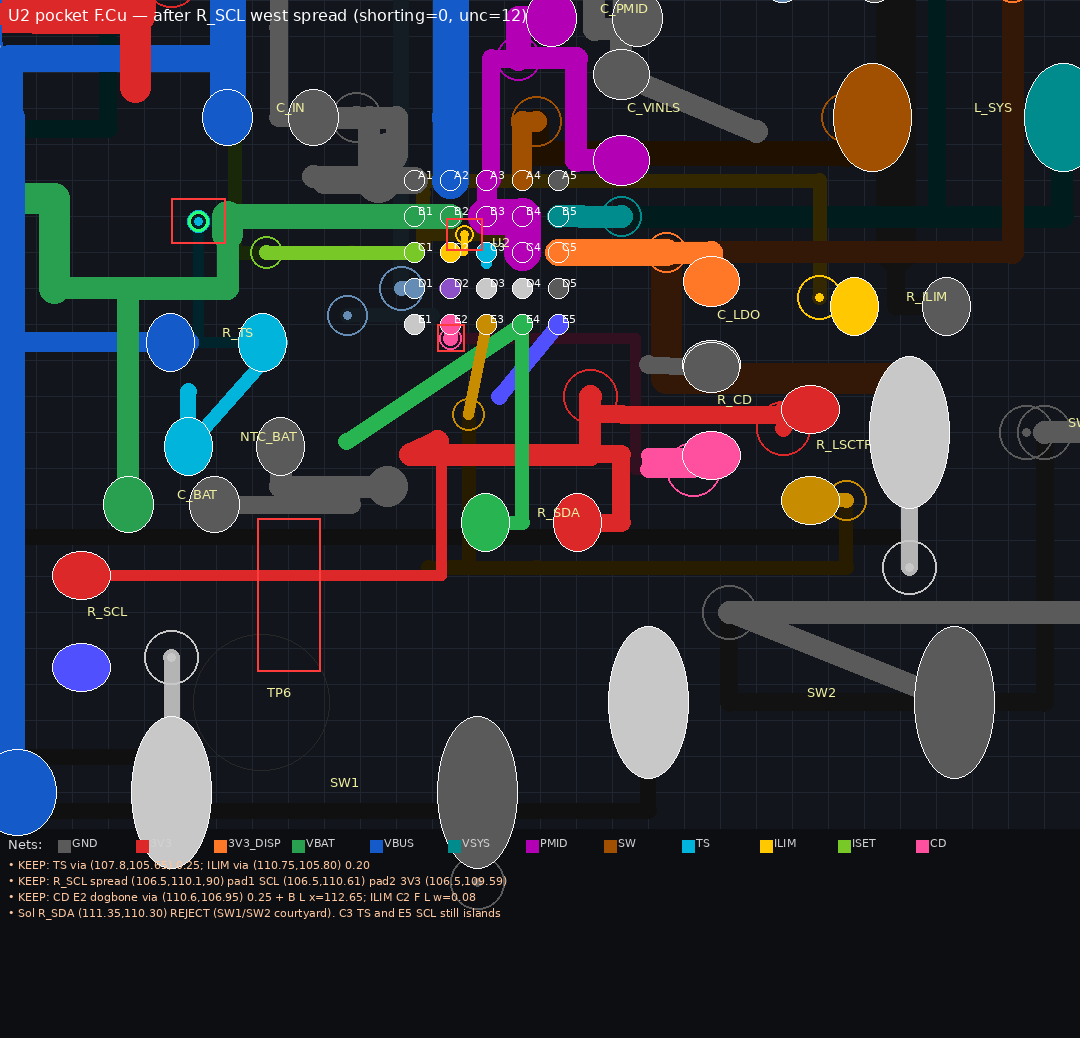
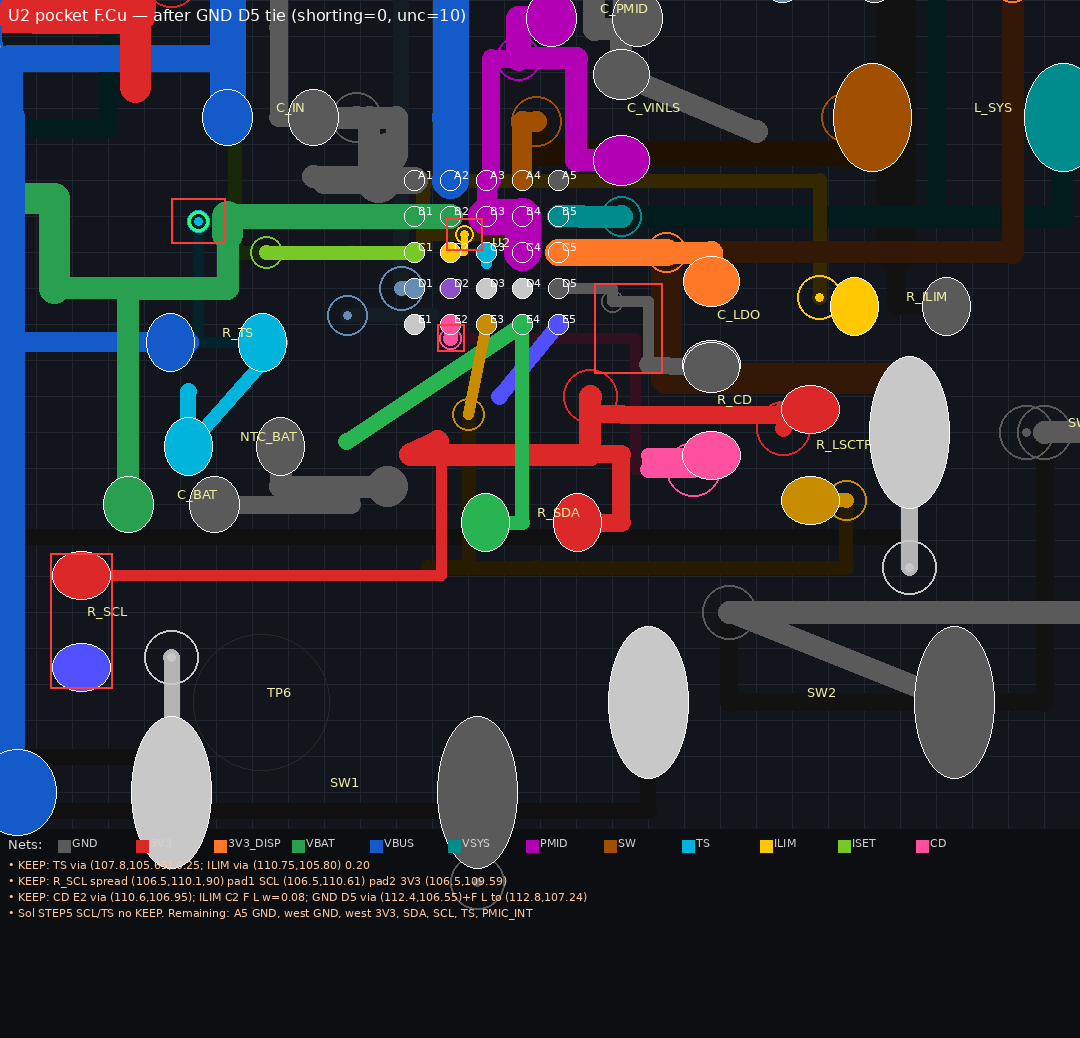
Tie U2 D5 GND onto east R_CD without zone refill.
Sol STEP5 refused SCL/TS (pad1 boxed by VBUS/BTN1; TS B hits CD/ILIM).
Independent KEEP: D5 via 0.25@(112.4,106.55) plus F.Cu L onto existing
R_CD GND (112.8,107.24). DRC shorting=0, unconnected 12→10.

diff --git a/kicad/tools/_pass_ag_try.py b/kicad/tools/_pass_ag_try.py
@@ -390,6 +390,29 @@ elif edit_name == "sol_rscl_west":
     if n_h != 1 or n_v != 1:
         raise SystemExit("sol_rscl_west failed to match 3V3 follow")
 
+elif edit_name == "sol_gnd_d5_via":
+    # Sol STEP5 refused SCL/TS (pad1 boxed by VBUS/BTN1/3V3; TS B hits CD/ILIM).
+    # Independent: stitch U2.D5 GND. Not VIP. A5 east still overlaps
+    # PMID/ILIM B — leave A5. Via 0.35@(112.22,106.40) was only +0.075 vs
+    # 3V3_DISP F y=106.0 (below 0.15). KEEP 0.25@(112.4,106.55). New via
+    # does not stitch stale In1 fill; F.Cu L onto existing GND
+    # (112.8,107.24) joins the east cluster without a zone refill.
+    # Do not drop (112.4,106.55)-(112.4,107.24): +0.073 vs 3V3 via 0.6.
+    text = add_via(text, 112.4, 106.55, 0.25, 0.15, ground_net)
+    text = add_segment(text, 111.8, 106.4, 112.4, 106.4, 0.12, "F.Cu", ground_net)
+    text = add_segment(text, 112.4, 106.4, 112.4, 106.55, 0.12, "F.Cu", ground_net)
+    text = add_segment(text, 112.4, 106.55, 112.8, 106.55, 0.12, "F.Cu", ground_net)
+    text = add_segment(text, 112.8, 106.55, 112.8, 107.24, 0.12, "F.Cu", ground_net)
+    print("sol_gnd_d5_via via (112.4,106.55) 0.25 + F L D5→(112.8,107.24)")
+
+elif edit_name == "sol_gnd_d5_tie":
+    # Board already has the D5 via + dogbone. Zone fill is stale, so the
+    # via is still an island vs east GND (112.8,107.24). Orthogonal F.Cu
+    # east-then-south L, overlap=0 (3V3_DISP via +0.300, 3V3 via +0.374).
+    text = add_segment(text, 112.4, 106.55, 112.8, 106.55, 0.12, "F.Cu", ground_net)
+    text = add_segment(text, 112.8, 106.55, 112.8, 107.24, 0.12, "F.Cu", ground_net)
+    print("sol_gnd_d5_tie F L (112.4,106.55)->(112.8,106.55)->(112.8,107.24)")
+
 else:
     raise SystemExit(f"unknown edit {edit_name}")
 

diff --git a/kicad/tools/_pass_ag_apply_keeps.py b/kicad/tools/_pass_ag_apply_keeps.py
@@ -116,6 +116,25 @@ if has_ilim_dog and "(at 108.8 109.8 90)" in text and not has_rscl_west:
     applied.append("sol_rscl_west")
     has_rscl_west = True
 
+has_gnd_d5 = "(at 112.4 106.55)" in text
+has_gnd_d5_tie = "(start 112.8 106.55)" in text or "(end 112.8 106.55)" in text
+if has_rscl_west and not has_gnd_d5:
+    ground_net = netnum(text, "GND")
+    text = add_via(text, 112.4, 106.55, 0.25, 0.15, ground_net)
+    text = add_segment(text, 111.8, 106.4, 112.4, 106.4, 0.12, "F.Cu", ground_net)
+    text = add_segment(text, 112.4, 106.4, 112.4, 106.55, 0.12, "F.Cu", ground_net)
+    text = add_segment(text, 112.4, 106.55, 112.8, 106.55, 0.12, "F.Cu", ground_net)
+    text = add_segment(text, 112.8, 106.55, 112.8, 107.24, 0.12, "F.Cu", ground_net)
+    applied.append("sol_gnd_d5_via")
+    has_gnd_d5 = True
+    has_gnd_d5_tie = True
+elif has_gnd_d5 and not has_gnd_d5_tie:
+    ground_net = netnum(text, "GND")
+    text = add_segment(text, 112.4, 106.55, 112.8, 106.55, 0.12, "F.Cu", ground_net)
+    text = add_segment(text, 112.8, 106.55, 112.8, 107.24, 0.12, "F.Cu", ground_net)
+    applied.append("sol_gnd_d5_tie")
+    has_gnd_d5_tie = True
+
 if not applied:
     if "(at 110.75 105.8)" in text and (
         "(at 108.8 109.8 90)" in text or has_rscl_west
@@ -131,6 +150,10 @@ if not applied:
             extra += ", sol_ilim_c2_dogbone"
         if has_rscl_west:
             extra += ", sol_rscl_west"
+        if has_gnd_d5:
+            extra += ", sol_gnd_d5_via"
+        if has_gnd_d5_tie:
+            extra += ", sol_gnd_d5_tie"
         print(
             "Pass-AG keeps already present: "
             f"iset_via_west, ts_via_corner, sol_combo_west{extra}"

diff --git a/kicad/tools/_u2_pocket_render.py b/kicad/tools/_u2_pocket_render.py
@@ -39,8 +39,8 @@ NET_COLORS = {
 LATENTS = [
     "KEEP: TS via (107.8,105.65) 0.25; ILIM via (110.75,105.80) 0.20",
     "KEEP: R_SCL spread (106.5,110.1,90) pad1 SCL (106.5,110.61) pad2 3V3 (106.5,109.59)",
-    "KEEP: CD E2 dogbone via (110.6,106.95) 0.25 + B L x=112.65; ILIM C2 F L w=0.08",
-    "Sol R_SDA (111.35,110.30) REJECT (SW1/SW2 courtyard). C3 TS and E5 SCL still islands",
+    "KEEP: CD E2 via (110.6,106.95); ILIM C2 F L w=0.08; GND D5 via (112.4,106.55)+F L to (112.8,107.24)",
+    "Sol STEP5 SCL/TS no KEEP. Remaining: A5 GND, west GND, west 3V3, SDA, SCL, TS, PMIC_INT",
 ]
 
 
@@ -243,9 +243,10 @@ def render_layer(text, layer, title, callouts):
     # latent / KEEP boxes
     boxes = [
         ((110.55, 105.62, 110.95, 105.98), "ILIM via KEEP"),
-        ((108.45, 108.95, 109.15, 110.65), "R_SCL KEEP"),
+        ((106.15, 109.35, 106.85, 110.85), "R_SCL KEEP"),
         ((107.5, 105.4, 108.1, 105.9), "TS via KEEP"),
         ((110.45, 106.80, 110.75, 107.10), "CD via KEEP"),
+        ((112.20, 106.35, 112.95, 107.35), "GND D5 KEEP"),
     ]
     if layer == "F.Cu":
         for (bx0, by0, bx1, by1), _label in boxes:
@@ -282,7 +283,7 @@ def main():
     fcu = render_layer(
         text,
         "F.Cu",
-        "U2 pocket F.Cu — after R_SCL west spread (shorting=0, unc=12)",
+        "U2 pocket F.Cu — after GND D5 tie (shorting=0, unc=10)",
         LATENTS,
     )
     bcu = render_layer(

diff --git a/kicad/reports/PASS_AG_SOL_STEP5.md b/kicad/reports/PASS_AG_SOL_STEP5.md
@@ -1,0 +1,96 @@
+# gpt-6-sol repo explorer (2026-09-24)
+
+Sol used workspace tools. API key is not in the repo. Coordinates below are **Sol's**, not yet a DRC KEEP unless a later section says KEEP.
+
+## Tool calls
+
+- `list_dir` `{"path": "."}`
+- `glob` `{"pattern": "**/cursor.md"}`
+- `glob` `{"pattern": "kicad/reports/*AG*"}`
+- `glob` `{"pattern": "kicad/reports/sol_views/*"}`
+- `glob` `{"pattern": "kicad/LIVE_LOG.txt"}`
+- `read_file` `{"path": "cursor.md"}`
+- `read_file` `{"path": "kicad/reports/PASS_AG.md"}`
+- `read_file` `{"path": "kicad/reports/PASS_AG_SOL_STEP4.md"}`
+- `read_file` `{"path": "kicad/LIVE_LOG.txt", "limit": 95}`
+- `inspect_pcb_window` `{"x0": 105, "y0": 105, "x1": 113, "y1": 112}`
+- `read_image` `{"path": "kicad/reports/sol_views/u2_pocket_fcu_annotated.png"}`
+- `read_image` `{"path": "kicad/reports/sol_views/u2_pocket_bcu_annotated.png"}`
+- `read_file` `{"path": "kicad/LIVE_LOG.txt", "offset": 900, "limit": 100}`
+- `read_file` `{"path": "kicad/reports/PASS_AG_SOL_STEP3.md", "limit": 145}`
+- `read_image` `{"path": "kicad/reports/sol_views/u2_3d_close.png"}`
+- `inspect_pcb_window` `{"x0": 106, "y0": 103, "x1": 112, "y1": 108, "layer": "B.Cu"}`
+- `probe_clearance` `{"kind": "segment", "net": "SCL", "layer": "F.Cu", "x1": 106.5, "y1": 110.61, "x2": 106.5, "y2": 111.1, "width": 0.12}`
+- `probe_clearance` `{"kind": "segment", "net": "SCL", "layer": "F.Cu", "x1": 106.5, "y1": 110.61, "x2": 107.1, "y2": 110.61, "width": 0.12}`
+- `probe_clearance` `{"kind": "segment", "net": "SCL", "layer": "F.Cu", "x1": 111.14, "y1": 107.6, "x2": 111.14, "y2": 107.95, "width": 0.1}`
+- `probe_clearance` `{"kind": "via", "net": "SCL", "x": 111.8, "y": 107.4, "size": 0.2}`
+- `probe_clearance` `{"kind": "via", "net": "TS", "x": 111, "y": 106.12, "size": 0.2}`
+- `probe_clearance` `{"kind": "segment", "net": "TS", "layer": "B.Cu", "x1": 111, "y1": 106.12, "x2": 111, "y2": 107.35, "width": 0.1}`
+- `probe_clearance` `{"kind": "segment", "net": "SCL", "layer": "F.Cu", "x1": 106.5, "y1": 110.61, "x2": 106.5, "y2": 109.1, "width": 0.12}`
+- `probe_clearance` `{"kind": "segment", "net": "SCL", "layer": "F.Cu", "x1": 106.5, "y1": 110.61, "x2": 105.9, "y2": 110.61, "width": 0.12}`
+- `probe_clearance` `{"kind": "segment", "net": "SCL", "layer": "F.Cu", "x1": 106.5, "y1": 111.1, "x2": 108.3, "y2": 111.1, "width": 0.12}`
+- `probe_clearance` `{"kind": "segment", "net": "SCL", "layer": "F.Cu", "x1": 106.5, "y1": 110.61, "x2": 106.5, "y2": 112.95, "width": 0.12}`
+- `probe_clearance` `{"kind": "segment", "net": "TS", "layer": "B.Cu", "x1": 111, "y1": 106.12, "x2": 107.8, "y2": 106.12, "width": 0.1}`
+- `probe_clearance` `{"kind": "segment", "net": "TS", "layer": "B.Cu", "x1": 111, "y1": 106.12, "x2": 111, "y2": 105.65, "width": 0.1}`
+
+## Usage
+
+{
+  "prompt_tokens": 35797,
+  "completion_tokens": 1078,
+  "total_tokens": 36875,
+  "prompt_tokens_details": {
+    "cached_tokens": 32782,
+    "cache_write_tokens": 3012
+  },
+  "completion_tokens_details": {
+    "reasoning_tokens": 336
+  },
+  "cost": 0.0,
+  "is_byok": false
+}
+
+## Sol reply
+
+Я сам открыл `cursor.md`, хвост `kicad/LIVE_LOG.txt`, `PASS_AG.md`, `PASS_AG_SOL_STEP3.md` и `PASS_AG_SOL_STEP4.md`; осмотрел живую медь и площадки в окне `(105,105)–(113,112)`, B.Cu севернее U2, карты F.Cu/B.Cu и крупный 3D-вид из `sol_views`. На плате подтверждены `R_SCL (106.50,110.10,90)`, площадка SCL `(106.50,110.61)` и существующий подвод 3V3 к площадке `(106.50,109.59)`. **`sol_rscl_west` не откатываю.**
+
+Три *разных ортогональных F/B направления* для островов U2 — пока не готовые соединения:
+
+1. **SCL целиком по F.Cu через южный обход.** От E5 идти к западной площадке R_SCL, обходя линию 3V3 на `y=108.25` и 3V3-подвод на `y=109.59`. У самой площадки прямой северный выход пробой пересекает 3V3; восточный упирается в BTN1, западный — в VBUS. Южный выход пробирован до `(106.50,112.95)` без перекрытия, но это ещё не маршрут от E5.
+2. **SCL с северным участком на B.Cu и возвратом на F.Cu *до* BTN3.** Это отличается от южного F.Cu-обхода: B.Cu не должен пересекать BTN3 на `y=109.15`. Пробный переход `(111.80,107.40)` размером `0.20` имеет риск: зазор лишь `+0.012 мм` до перехода 3V3; безопасная пара переходов и полный F.Cu-выход не найдены.
+3. **TS от C3 через B.Cu к существующему TS-переходу `(107.80,105.65)`**, с ортогональными участками на северной стороне кармана. Переход TS `(111.00,106.12)` размером `0.20` локально проходит пробу, но B.Cu вниз пересекает CD (`−0.110 мм`), прямо на запад — IPRETERM/ISET, а вниз к `y=105.65` — ILIM (`−0.125 мм`).
+
+**Первый комбинированный KEEP сейчас не называю и команды `set_*` / `add_*` не выдаю.** Для SCL проба восточного выхода от площадки до `(107.10,110.61)` дала лишь `+0.055 мм` до перехода BTN1 — меньше требуемых `0.15 мм`; южный выход сам по себе не соединяет острова. Для TS ни один проверенный полный B.Cu-путь не свободен. Числа промежуточных точек в вариантах — проверенные *кандидаты*, а не координаты готовой трассы из файла. Плату не менял, новый DRC не запускал; `shorting=0, unc=12` — последний зафиксированный результат отчёта, не результат этого шага. VBUS на док не подавать.
+
+## Independent KEEP (not Sol copper)
+
+Sol's SCL/TS refusal is correct. Independent F.Cu-clear GND D5 dogbone + tie to existing east GND, no zone refill.
+
+### REJECT (not applied)
+
+- GND via `0.35@(112.22, 106.40)` — 3V3_DISP F `+0.075` (below 0.15)
+- GND F `(112.4, 106.55)–(112.4, 107.24)` w=0.12 — 3V3 via `0.6@(112.16, 107.60)` `+0.073`
+- 3V3 stitch via `(107.0, 109.59)` `0.25` — overlap=0 and inside In2 r=12, but a new via does not stitch stale fill; would not close west 3V3 vs `(102.52, 109.40)`
+
+### Applied KEEP `sol_gnd_d5_via`
+
+```text
+add_via(net=GND, at=(112.4, 106.55), size=0.25, drill=0.15)
+add_segment(net=GND, layer=F.Cu, start=(111.8, 106.4), end=(112.4, 106.4), width=0.12)
+add_segment(net=GND, layer=F.Cu, start=(112.4, 106.4), end=(112.4, 106.55), width=0.12)
+```
+
+DRC: **`shorting_items=0`**, `unc=12→11`, power/pocket gates held. Via does not stitch In1.
+
+### Applied KEEP `sol_gnd_d5_tie`
+
+```text
+add_segment(net=GND, layer=F.Cu, start=(112.4, 106.55), end=(112.8, 106.55), width=0.12)
+add_segment(net=GND, layer=F.Cu, start=(112.8, 106.55), end=(112.8, 107.24), width=0.12)
+```
+
+Probe overlap=0 (tightest `+0.300` vs 3V3_DISP via `(113.00, 106.00)`, `+0.374` vs 3V3 via). DRC: **`shorting_items=0`**, `unc=11→10`. D5 joined `R_CD` east GND. Still islanded vs west GND `(108.71, 108.60)` (`NTC_BAT`/`C_BAT`).
+
+## Remaining U2 islands
+
+A5 GND, west GND NTC vs east `R_CD`, west 3V3, SDA to U1, SCL E5 vs `R_SCL` pad1 `(106.5, 110.61)`, SCL to U1, PMIC_INT, TS C3 vs TS B `(107.8, 105.65)`.

diff --git a/kicad/reports/PASS_AG.md b/kicad/reports/PASS_AG.md
@@ -2,12 +2,12 @@
 
 **Board:** `e-ink-watch.kicad_pcb`  
 **From:** Pass-AF (`shorting=0`, `unc=10`)  
-**To:** Pass-AG (`shorting=0`, `unc=12` after `sol_rscl_west` spread)  
+**To:** Pass-AG (`shorting=0`, `unc=10` after `sol_gnd_d5_tie`)  
 **Tool:** `kicad-cli 9.0.9 pcb drc` + in-place sexpr edits
 
 ## Verdict
 
-**Partial.** Hard gates held. Combined Sol vision KEEP cleared the four U2 latents. Sol then browsed the repo: `sol_rscl_3v3` then `sol_3v3_lsctrl_tie` reconnected the west `R_SCL` pad2 and the leftover `R_LSCTRL` 3V3 stub. Independent CD F→B KEEP (`sol_cd_e2_via`) and ILIM C2 dogbone (`sol_ilim_c2_dogbone`) closed E2 and C2 (`unc` 16→12). South 0402 heap spread with `sol_rscl_west` (`R_SCL` to `(106.5, 110.1, 90)`). C3 TS and E5 SCL still islands. Not production-ready.
+**Partial.** Hard gates held. Combined Sol vision KEEP cleared the four U2 latents. Sol then browsed the repo: `sol_rscl_3v3` then `sol_3v3_lsctrl_tie` reconnected the west `R_SCL` pad2 and the leftover `R_LSCTRL` 3V3 stub. Independent CD F→B KEEP (`sol_cd_e2_via`) and ILIM C2 dogbone (`sol_ilim_c2_dogbone`) closed E2 and C2 (`unc` 16→12). South 0402 heap spread with `sol_rscl_west` (`R_SCL` to `(106.5, 110.1, 90)`). Independent `sol_gnd_d5_via` + F.Cu tie `sol_gnd_d5_tie` joined D5 onto east `R_CD` GND (`unc` 12→10). C3 TS and E5 SCL still islands. Not production-ready.
 
 ## KEEP (DRC-gated)
 
@@ -21,6 +21,8 @@
 | `sol_cd_e2_via` add F/B | CD E2 dogbone via `(110.6, 106.95)` `0.25/0.15` + F stub w=0.15 + B.Cu L `y=106.95` / `x=112.65` onto existing CD via `(113.3, 108.41)`. Sol's via-in-pad on E2 and B `x=112.4` rejected (3V3 via OVERLAP `−0.120`). `shorting=0`, `unc=14→13`. |
 | `sol_ilim_c2_dogbone` add F.Cu | Orthogonal w=0.08 `(110.6, 106.0)–(110.75, 106.0)–(110.75, 105.8)` onto KEEP ILIM via. Do not drop ILIM on `x=110.6` at `y=105.80` (VBAT RISK `+0.020`). `shorting=0`, `unc=13→12`. |
 | `sol_rscl_west` in-place | Spread SCL/TS 0402 heap: `R_SCL (108.8, 109.8, 90)` → `(106.5, 110.1, 90)`; 3V3 L retargeted to pad2 `(106.5, 109.59)` → `(110.5, 109.59)` → `(110.5, 108.25)`. Sol's `R_SDA (111.35, 110.30)` rejected (courtyard onto `SW1`/`SW2`). `shorting=0`, `unc=12`. |
+| `sol_gnd_d5_via` add F/via | U2.D5 GND dogbone via `(112.4, 106.55)` `0.25/0.15` + F L `(111.8,106.4)→(112.4,106.4)→(112.4,106.55)` w=0.12. Not VIP. Via does not stitch stale In1 fill. `shorting=0`, `unc=12→11`. |
+| `sol_gnd_d5_tie` add F.Cu | Orthogonal F.Cu east-then-south `(112.4,106.55)→(112.8,106.55)→(112.8,107.24)` w=0.12 onto existing `R_CD` GND. Probe overlap=0 (3V3_DISP via `+0.300`, 3V3 via `+0.374`). Vertical-first `(112.4,106.55)–(112.4,107.24)` is only `+0.073` vs 3V3 via — rejected. `shorting=0`, `unc=11→10`. |
 
 Replay: `python3 tools/_pass_ag_apply_keeps.py` on the Pass-AF board.
 
@@ -40,13 +42,13 @@ In-place `(at …)` / endpoint edits keep KiCad item order. That avoided the Pas
 
 The four U2 latents from Pass-AG are **geometrically cleared** by `sol_combo_west` (DRC `shorting=0` after the same save). Remaining work is reconnect, not overlap.
 
-## Remaining unc=12
+## Remaining unc=10
 
-GND A5–D5, west 3V3, west 3V3_DISP, SDA to U1, SCL E5 vs `R_SCL` pad1 `(106.5, 110.61)`, SCL to U1, PMIC_INT, TS C3 vs TS B via `(107.8, 105.65)`. Pocket CD (E2) and ILIM (C2) are closed. `R_SDA` still sits in the F street at `(111.50, 109.00)`.
+GND A5 vs D5, D5/`R_CD` east GND vs west GND `(108.71, 108.60)` (`NTC_BAT`/`C_BAT`; In1 fill does not join them), west 3V3 via `(102.52, 109.40)` vs spread L, west 3V3_DISP, SDA to U1, SCL E5 vs `R_SCL` pad1 `(106.5, 110.61)`, SCL to U1, PMIC_INT, TS C3 vs TS B via `(107.8, 105.65)`. Pocket CD (E2), ILIM (C2), and D5→east GND are closed. `R_SDA` still sits in the F street at `(111.50, 109.00)`.
 
 ## Next
 
-Orthogonal F/B reconnect of TS C3 and SCL E5→`R_SCL` pad1 `(106.5, 110.61)`. Do not park `R_SDA` on `SW1`/`SW2` courtyards. New CD B.Cu at `y=106.95` `x=110.60–112.65` — through vias there short CD. No In1/In2. No new overlap. East 0402 column stays (`R_CD`/`C_LDO` x=113.5, `R_LSCTRL` x=114.6, `R_ILIM` x=115.6).
+Orthogonal F/B reconnect of TS C3 and SCL E5→`R_SCL` pad1 `(106.5, 110.61)`. Do not park `R_SDA` on `SW1`/`SW2` courtyards. New CD B.Cu at `y=106.95` `x=110.60–112.65` — through vias there short CD. New GND via does not stitch In1 until refill — use F.Cu ties to existing GND copper. No In1/In2 signal hauls. No new overlap. East 0402 column stays (`R_CD`/`C_LDO` x=113.5, `R_LSCTRL` x=114.6, `R_ILIM` x=115.6).
 
 gpt-6-sol now browses with `tools/_sol_repo_explore.py`. NC pads must show in `inspect_pcb_window` / `probe_clearance` or it will haul CD onto E1.
 
@@ -55,5 +57,5 @@ gpt-6-sol now browses with `tools/_sol_repo_explore.py`. NC pads must show in `i
 - `tools/_pass_ag_sexpr_lib.py`, `_pass_ag_gate.py`, `_pass_ag_try.py`, `_pass_ag_apply_keeps.py`, `_pass_ag_run.sh`
 - `tools/_u2_pocket_render.py`, `_sol_vision_ask.py`, `_sol_repo_explore.py`, `_sol_board_query.py`
 - `reports/sol_views/`
-- `reports/PASS_AG_SOL.md`, `reports/PASS_AG_SOL_VISION.md`, `reports/PASS_AG_SOL_EXPLORE.md`, `reports/PASS_AG_SOL_EXPLORE_FOLLOWUP.md`, `reports/PASS_AG_SOL_STEP.md`, `reports/PASS_AG_SOL_STEP2.md`, `reports/PASS_AG_SOL_STEP3.md`, `reports/PASS_AG_SOL_STEP4.md`
+- `reports/PASS_AG_SOL.md`, `reports/PASS_AG_SOL_VISION.md`, `reports/PASS_AG_SOL_EXPLORE.md`, `reports/PASS_AG_SOL_EXPLORE_FOLLOWUP.md`, `reports/PASS_AG_SOL_STEP.md`, `reports/PASS_AG_SOL_STEP2.md`, `reports/PASS_AG_SOL_STEP3.md`, `reports/PASS_AG_SOL_STEP4.md`, `reports/PASS_AG_SOL_STEP5.md`
 - `LIVE_LOG.txt`

diff --git a/cursor.md b/cursor.md
@@ -35,6 +35,9 @@ Do not skip these on the next PCB pass.
 - CD via-in-pad on E2 `(110.60, 106.80)` is not a KEEP (DSBGA). B.Cu CD vertical `x=112.4` OVERLAP `−0.120` vs 3V3 via `0.6@(112.16, 107.60)`. KEEP `sol_cd_e2_via`: via `(110.6, 106.95)` `0.25/0.15`, F stub `(110.6,106.8)–(110.6,106.95)` w=0.15, B L `y=106.95` / `x=112.65` onto existing CD via `(113.3, 108.41)`. `shorting=0`, unc 14→13. Through vias on that B.Cu run short CD.
 - BTN3 B.Cu at `y=109.15` `w=0.18` spans `x=103.60–115.70`. Any B.Cu north–south from the U2 E-row to `R_SCL` pad1 overlaps it. SCL/TS via south of C3 on D3 is NC overlap. SCL via `(111.80, 107.40)` `0.20` is RISK `+0.012` vs 3V3 via `0.6@(112.16, 107.60)`. Sol correctly refused a SCL/TS KEEP after `sol_cd_e2_via` / `sol_ilim_c2_dogbone`.
 - Spreading the south 0402 heap: Sol STEP4 `R_SDA (111.35, 110.30, 0)` is F.Cu-clear of `SW2.1` (`+0.220`) but courtyards overlap `SW1` (`−1.18`) and `SW2` (`−1.42`) — that piles onto the buttons, not a spread. `probe_via` on an F-only 0402 pad false-overlaps `BTN3` B.Cu (through via). KEEP `sol_rscl_west`: `R_SCL (106.5, 110.1, 90)` pad1 `(106.5, 110.61)` pad2 `(106.5, 109.59)`, 3V3 follow `y=109.59`. `y=110.0` pad2 vs `C_BAT.1` VBAT is only `+0.11` (below 0.15). `x=106.2` clips VBUS F `x=105.7` `w=0.35`. DRC `shorting=0` unc=12. `R_SCL` pad1 is now `(106.5, 110.61)`.
+- Sol STEP5 refused SCL/TS KEEP: pad1 east stub to `(107.10, 110.61)` only `+0.055` vs BTN1 via `0.6@(107.50, 110.50)`; west hits VBUS; north hits 3V3 pad2; TS B from C3 hits CD `−0.110` / ILIM `−0.125`.
+- New via does **not** stitch stale In1/In2 `filled_polygon` until a zone refill (refill reorders items — do not). KEEP `sol_gnd_d5_via` `0.25@(112.4, 106.55)` was still an island vs east GND. F.Cu east-then-south tie `(112.4,106.55)→(112.8,106.55)→(112.8,107.24)` w=0.12 onto existing `R_CD` GND DRC-gated `sol_gnd_d5_tie`: `shorting=0`, unc 11→10. Do **not** drop `(112.4,106.55)–(112.4,107.24)` (`+0.073` vs 3V3 via `0.6@(112.16, 107.60)`). After the tie, D5+`R_CD` is still unconnected to west GND `(108.71, 108.60)` (`NTC_BAT`/`C_BAT`).
+- Independent F.Cu-clear 3V3 stitch via `(107.0, 109.59)` `0.25` sits inside In2 r=12 (BTN3 B `+0.225`, `C_BAT` `+0.355`) but will not close west 3V3 vs via `(102.52, 109.40)` without an F.Cu tie or a zone refill. Do not apply expecting an unc drop.
 
 ## Hard gates (do not relax)
 
